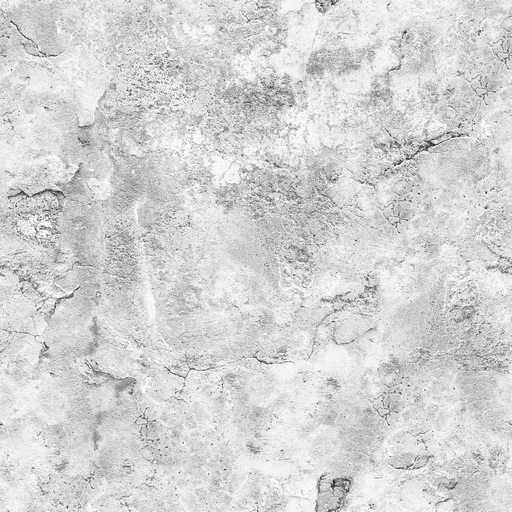
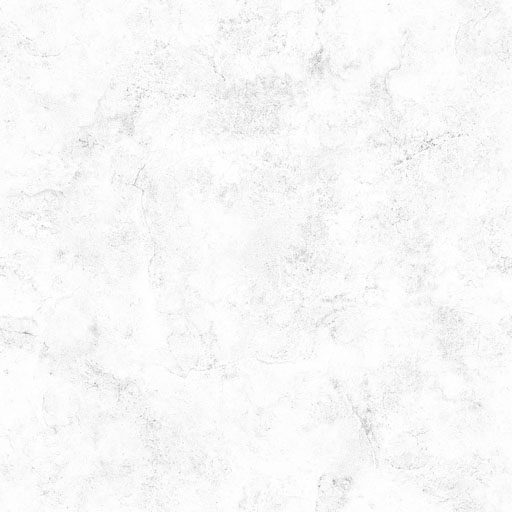
sum bisual chages ┈

diff --git a/spam/index.html b/spam/index.html
@@ -71,7 +71,7 @@ note: sorry i wont include credit, i have hundreds of photos saved already with 
             
 
                     </div>
-
+                   <!--
                     <div id="ccontent">
                         <img class="auditorium" src="https://drive.google.com/uc?export=view&id=1mTdqyW4QeplRWg5DZn0B1Vd8atBbdYXx" style="width: 160px;"/>
                         <br><br><h3>Pretty</h3>            <ol class="playlist_info">
@@ -80,7 +80,7 @@ note: sorry i wont include credit, i have hundreds of photos saved already with 
                         <a href="/spam/pretty" class="label3">CLICK TO SEE THIS GREATNESS</a>
 
 
-                </div>
+                </div>-->
 
 
 				<div id="ccontent">

diff --git a/code/index.html b/code/index.html
@@ -75,7 +75,7 @@
 						<br><br><h3>ggldcs</h3>            <ol class="playlist_info">
 							<li>not impressive, just automated <</li><br>
             </ol>
-						<a href="/code/ggldcs"  target="_blank" class="label3">CLICK TO SEE MY CODE</a>
+						<a href="/code/ggldcs" class="label3">CLICK TO SEE MY CODE</a>
 
 
         </div>

diff --git a/code/ggldcs/entry.css b/code/ggldcs/entry.css
@@ -109,7 +109,8 @@ html,body{height:100%;}
 }
 
 html{
-  background:url(../../images/entries/4.jpg);
+  background:url(../../images/entries/4.png);
+ 
 }
 
 /* If the screen size is 600px wide or less, set the font-size of <div> to 30px */
